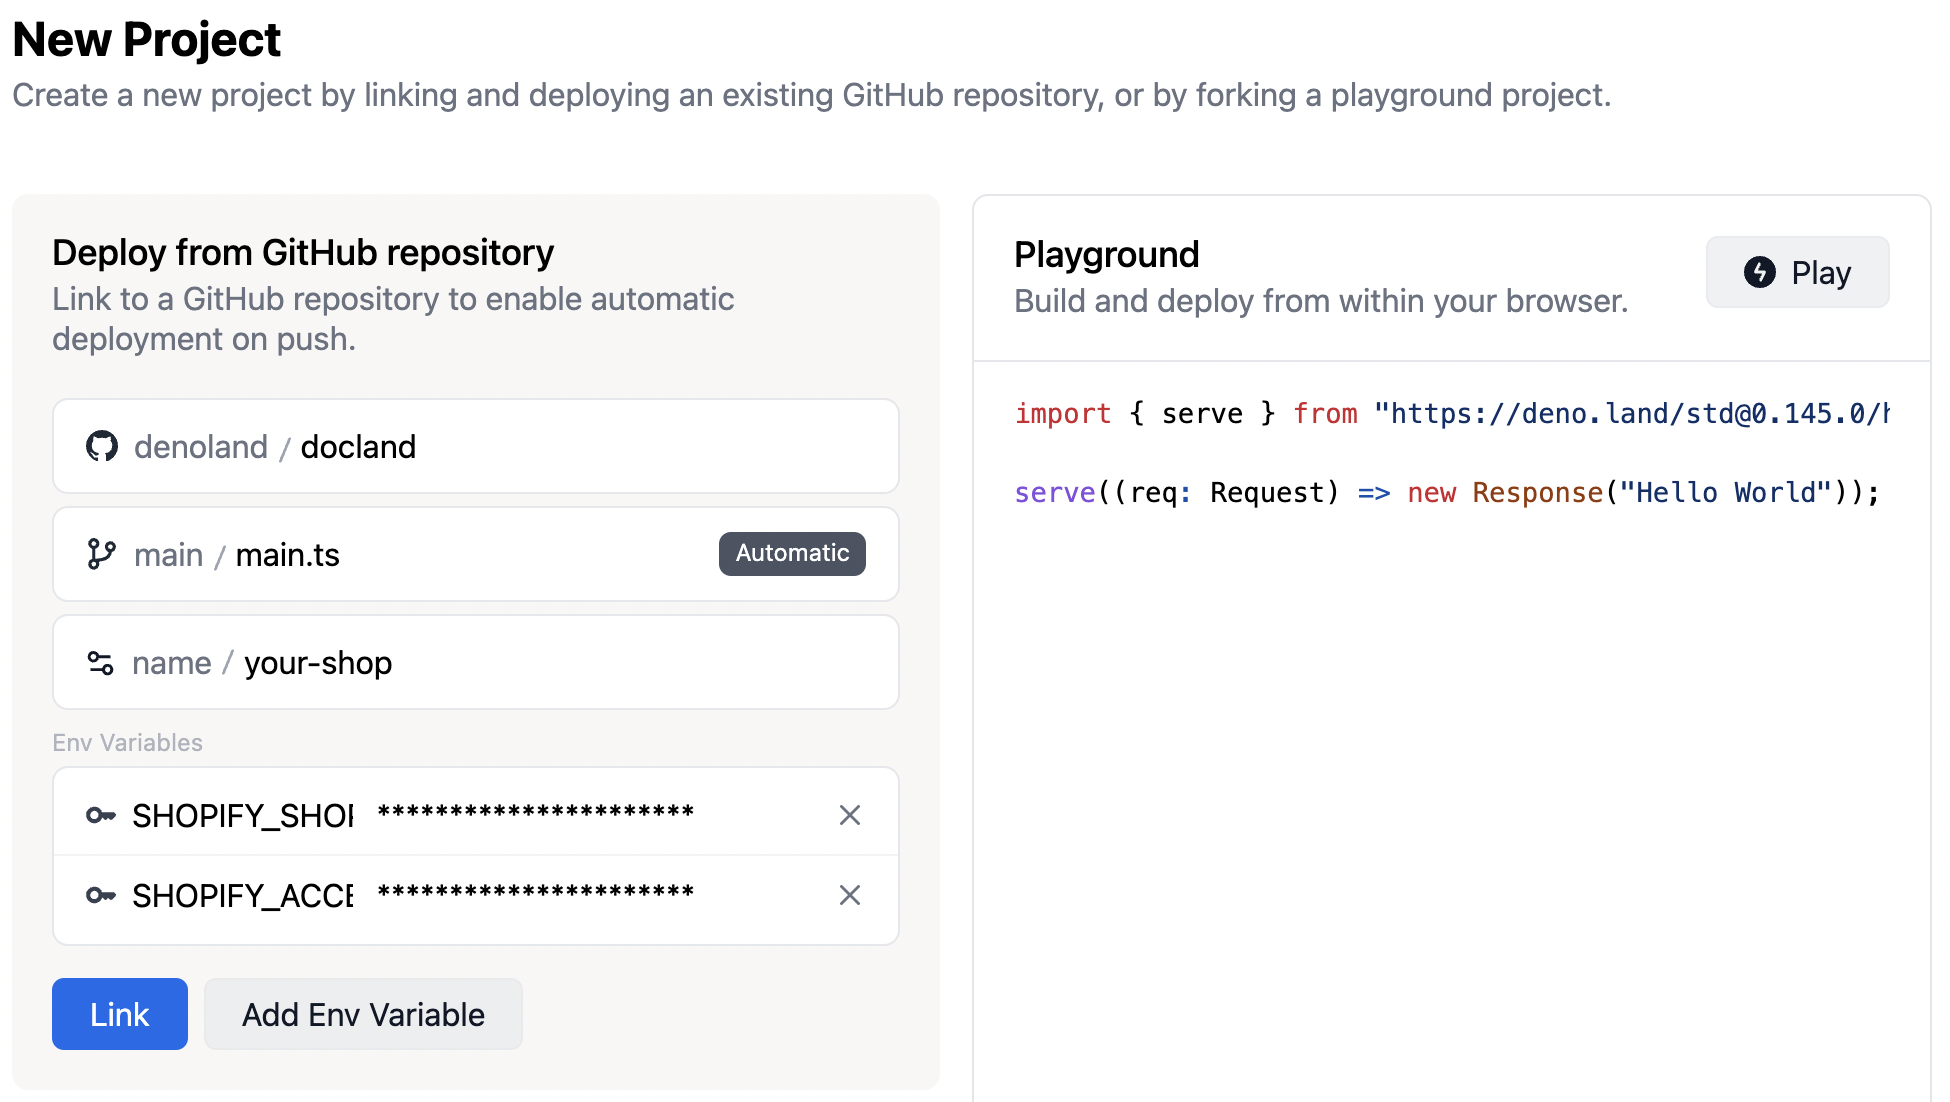
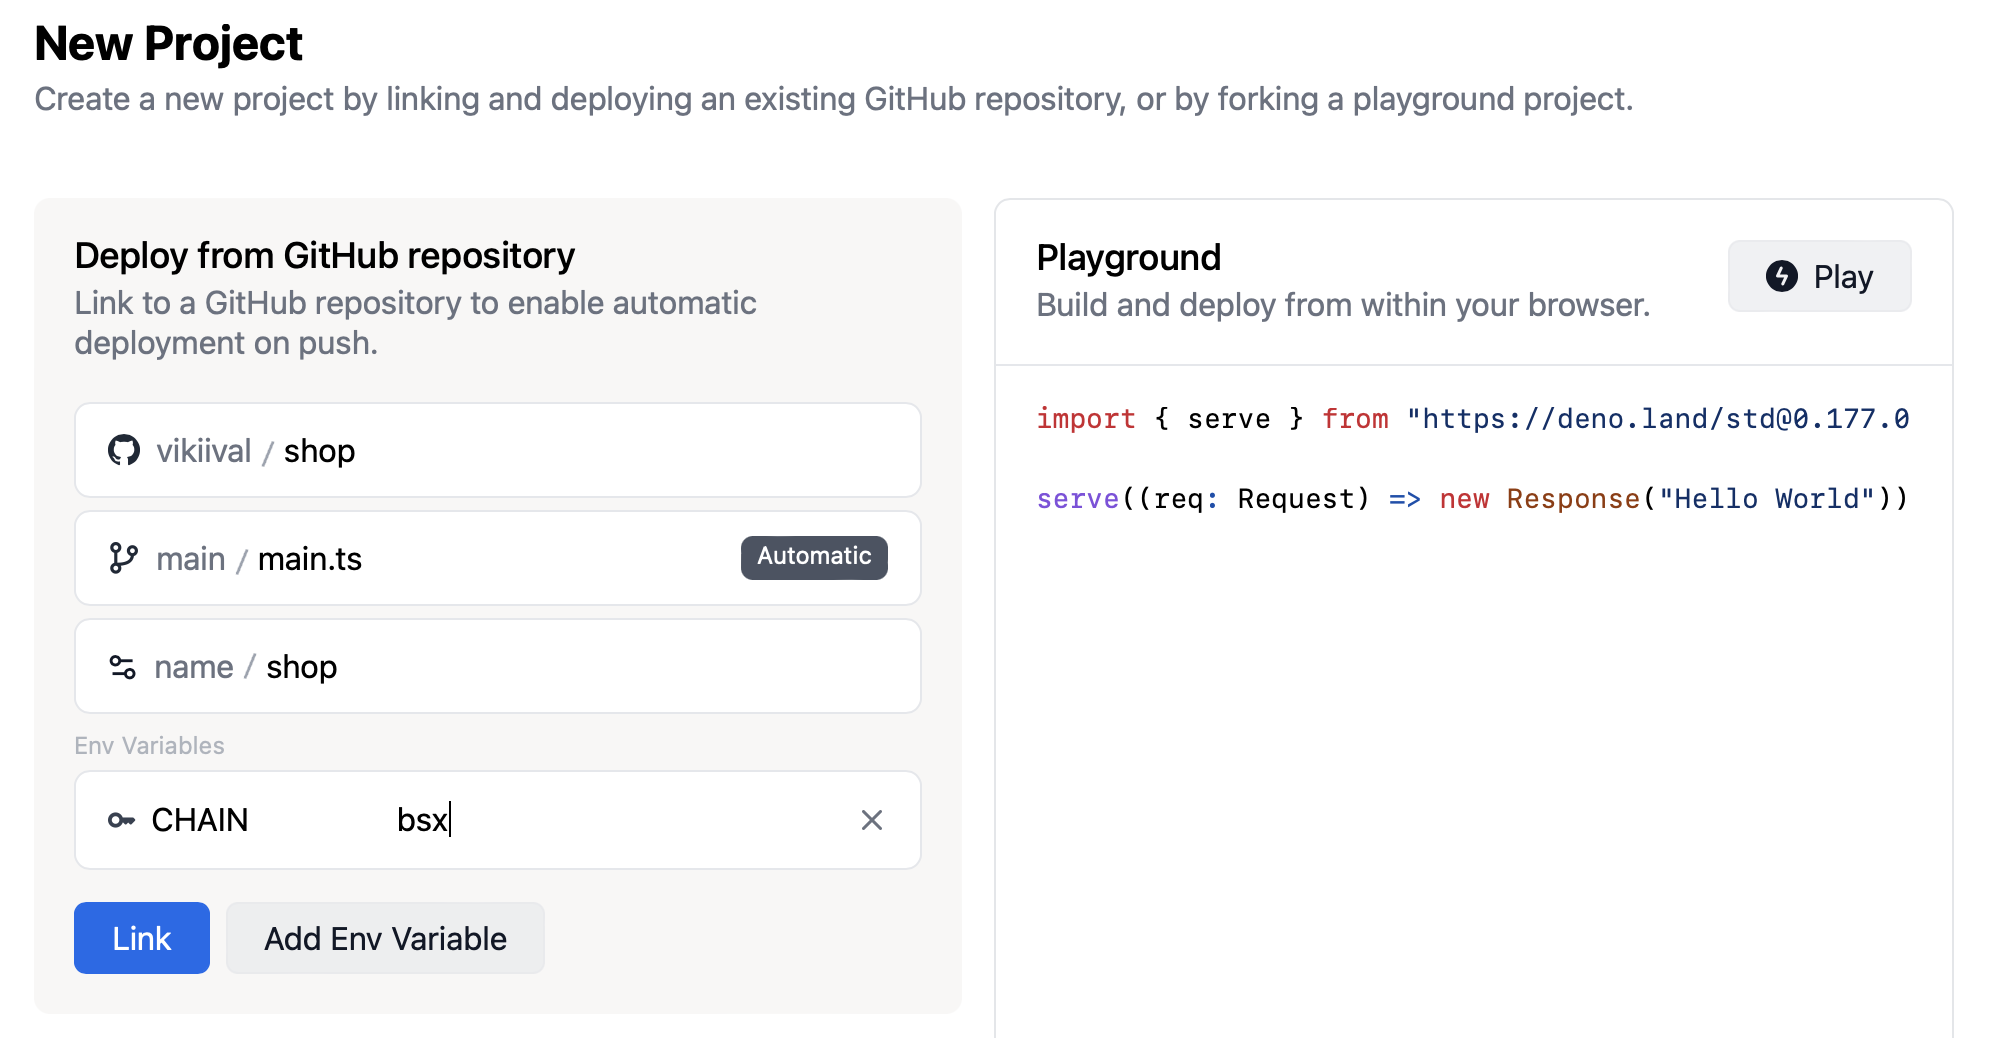
:memo: better readme than nothing

diff --git a/README.md b/README.md
@@ -1,9 +1,9 @@
-# Deno Merch
+# Kodadot Fandom Shop
 
-The Deno shop! Built with [Deno](https://deno.land/) and
-[Fresh](https://fresh.deno.dev/), powered by [Shopify](https://www.shopify.com), and deployed to the edge with [Deno Deploy](https://deno.com/deploy).
+Built with [Deno](https://deno.land/) and
+[Fresh](https://fresh.deno.dev/), powered by [Uniquery](https://github.com/kodadot/uniquery) and deployed to the edge with [Deno Deploy](https://deno.com/deploy).
 
-Using SSR, islands architecture, and being deployed close to users, this shop has a perfect Lighthouse score of 100. [_Learn how you can build an e-commerce site with a perfect Lighthouse score._](https://deno.com/blog/ecommerce-with-perfect-lighthouse-score)
+This app was built for showcasing [Uniquery](https://github.com/kodadot/uniquery), KodaDot's GraphQL API, for querying data from the blockchain. It's a simple shop that uses Uniquery to fetch NFTs from the blockchain via the [SubSquid indexer](http://subsquid.io).
 
 ## Screen Shot
 
@@ -12,46 +12,14 @@ Using SSR, islands architecture, and being deployed close to users, this shop ha
 ## Develop locally
 
 - Clone the repository
-- Set up Shopify credentials in the `.env`, follows `.env.example`.
+- Set up the `CHAIN` variable in the `.env,` follows `.env.example`.
 - Start the project in local mode:
   ```bash
   deno task start
   ```
 
-## Shopify Configuration Guide
-
-- Create a new account or use an existing one. https://accounts.shopify.com/store-login
-- Create a new app. https://\<yourshopname>.myshopify.com/admin/settings/apps
-- Once your app has been created, select use it. Then select "Storefront API integration" link
-- Next, check Storefront API access scopes
-  - `unauthenticated_read_product_listings` access should be fine to get you started. 
-  - Add more scopes if you require additional permissions.
-
-### Shopify Troubleshooting
-- If you encounter an error like `error code 401` you likely didn't set this up correctly. Revisit your scopes and be sure add at least one test product. Also make sure you are using the `Storefront API` and not the `Admin API` as the endpoints and scopes are different.
-- If you do not see a checkout sidebar, or if it is empty after adding a product, you need to add an image to your test product.
-
 ## Deploy to global
 
-Sign in to [dash.deno.com](https://dash.deno.com), create a new project, and then link to your clone version of the repository. Please ensure add shopify secret before link:
+Sign in to [dash.deno.com](https://dash.deno.com), create a new project, and then link to your clone repository version. Please ensure add `CHAIN.` variable:
 
 ![Screen Shot 2](./static/screen_shot_2.png)
-
-## Perfect Lighthouse score
-
-![Perfect lighthouse score](https://deno.com/ecommerce-with-perfect-lighthouse-score/perfect-score.png)
-
-Today’s consumers are more demanding than ever, especially when it comes to
-shopping online. These experiences must feel intuitive and snappy. Even a
-[100-millisecond delay in load time can hurt conversion rates by 7%](https://s3.amazonaws.com/sofist-marketing/State+of+Online+Retail+Performance+Spring+2017+-+Akamai+and+SOASTA+2017.pdf).
-
-Our [merch store](https://merch.deno.com), built with
-[Fresh](https://fresh.deno.dev) and
-[Shopify’s storefront API](https://shopify.dev/api/storefront), is server-side
-rendered (SSR) with some
-[islands of interactivity](https://fresh.deno.dev/docs/concepts/islands) and
-deployed close to users on the edge. Sending only what the client needs keeps
-the site lean and fast, earning it a perfect
-[Lighthouse score](https://pagespeed.web.dev/).
-
-Check out [our tutorial](https://deno.com/blog/ecommerce-with-perfect-lighthouse-score) that teaches you how to build an e-commerce site with a perfect Lighthouse score.
